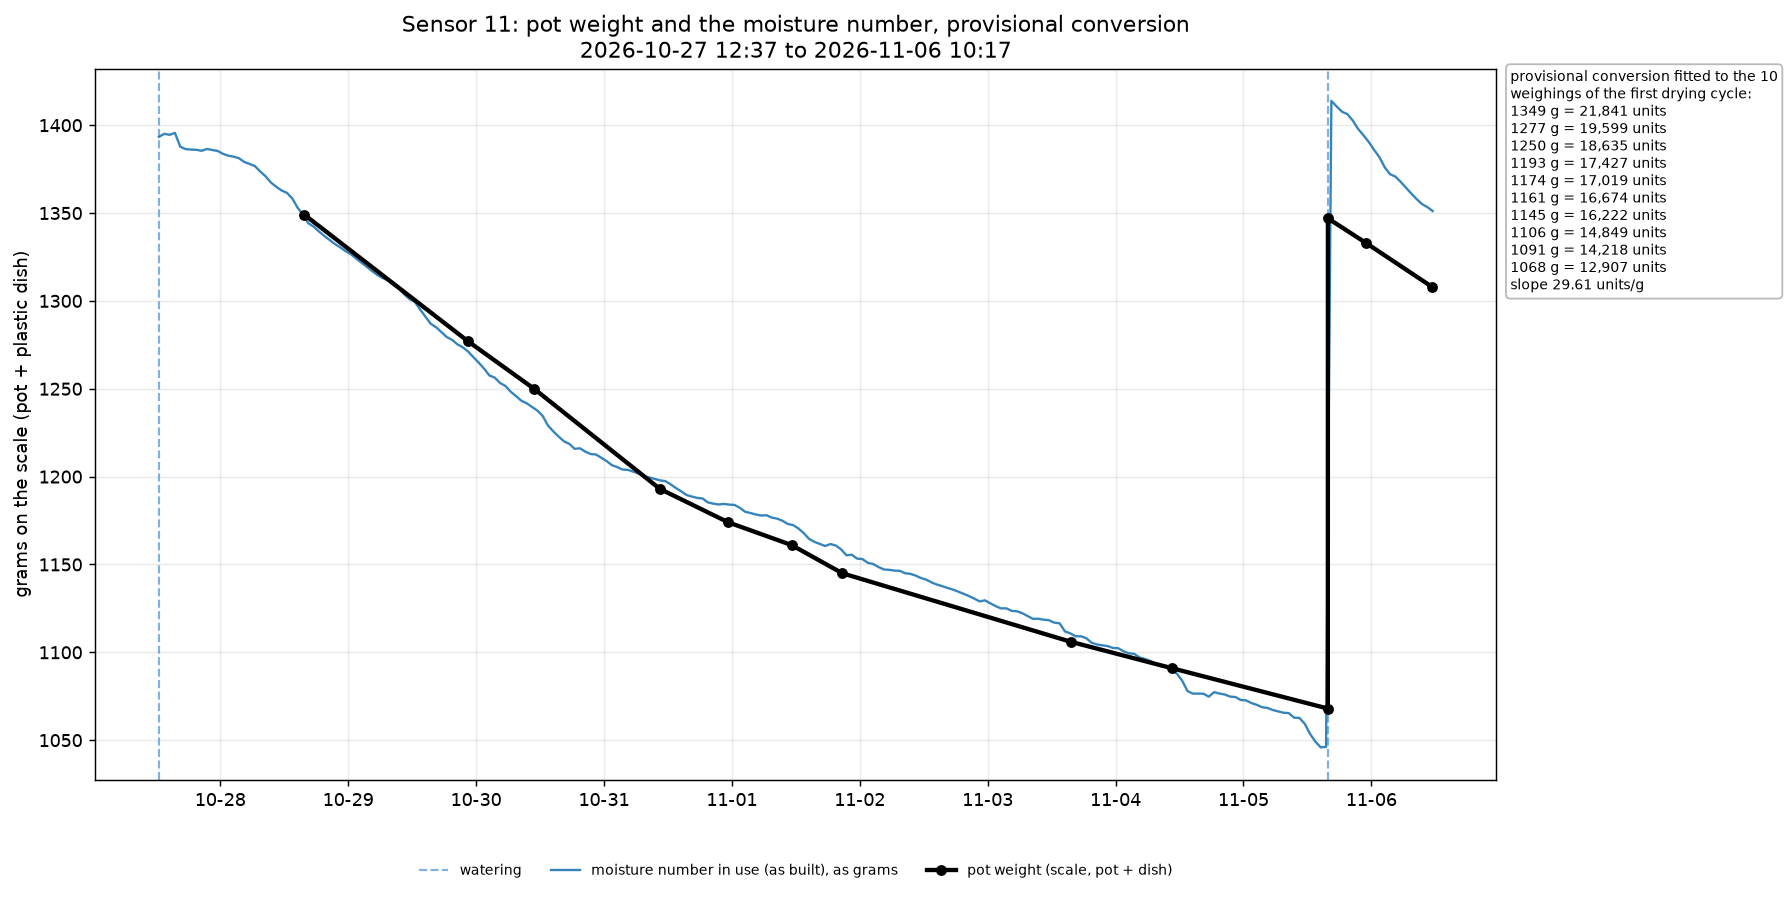
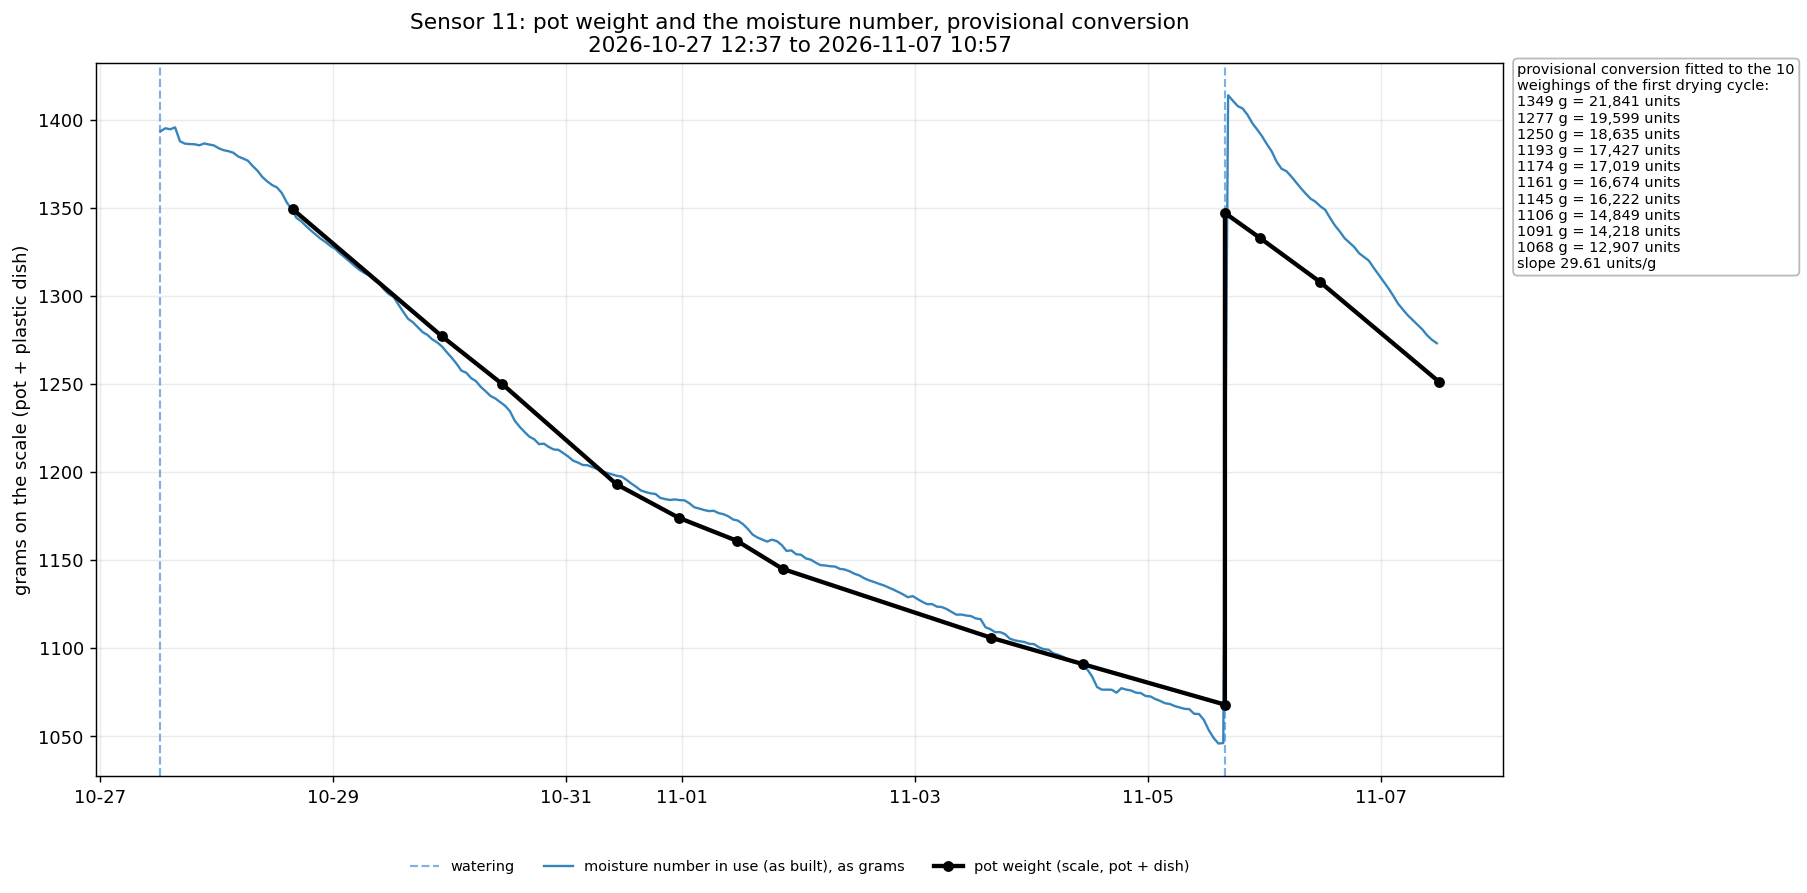
Begonia (sensor 11): 1251 on 11-07 (57 g under the 11-06 morning 1308); cross-watering rerun
1251 1251 1251 at ~11:03 PST, 44 h after the 11-05 watering and 96 g under
the 1347 right after it. This is the first weighing past 27 h, so the owed
cross-watering rerun is done and appended to the 11-06 model-transfer record:
fitted on cycle 1, the resistances and capacitances closed to -5..+14 g (from
+47..+132 at 11-05 21:59), so their cycle-2 offset was settling; RC-line mask C
held at +24..+30 g with the drying slope closest to the scale (-87 vs -82 g),
an offset rather than a gain. The stored number reads +20 g (was +57, +41).

diff --git a/MSV4/docs/MSV4_SENSOR11_MODEL_TRANSFER_2026-11-06.md b/MSV4/docs/MSV4_SENSOR11_MODEL_TRANSFER_2026-11-06.md
@@ -72,3 +72,41 @@ Predicted minus scale, grams. Lower |mean| is better. `change` is the predicted 
 What decides it: weighings from 11-06 evening onward, so cycle 2 overlaps cycle 1's time since
 watering. Then the next watering, weighed right before it, gives a third cycle and a second
 transfer test.
+
+## Update 2026-11-07: the first weighing past 27 h (MEASURED)
+
+1251 g at 11-07 ~11:03, 44 h after the watering: inside cycle 1's grams range and inside its
+time-since-watering range (its first two weighings were 27 h and 58 h after the 10-27 watering).
+Same script, sweeps refitted (2,264), 14 weighings.
+
+Fitted on cycle 1, predicted minus scale, grams. `change` is the predicted move from 11-05 21:59
+to 11-07 11:03, when the scale moved -82 g.
+
+| candidate | 21:59 | 11-06 10:23 | 11-07 11:03 | change |
+|---|---|---|---|---|
+| lumped mask C | +23 | +15 | +12 | -93 |
+| two-branch mask C | +33 | +20 | +15 | -99 |
+| RC-line mask C | +30 | +26 | +24 | -87 |
+| two-branch R | +47 | +32 | +10 | -119 |
+| RC-line R | +64 | +35 | +9 | -136 |
+| lumped R (firmware's) | +60 | +36 | +13 | -129 |
+| number in use | +57 | +41 | +20 | -119 |
+| CPE mask C | +80 | +40 | +8 | -155 |
+| Cm / soil-coupled | +99 / +102 | +49 / +49 | +4 / +3 | -177 / -181 |
+| direct C / derived soil C | +129 / +132 | +53 / +53 | -4 / -5 | -215 / -219 |
+
+- The resistances, the number in use and the capacitances kept closing after 27 h: the resistances
+  and capacitances are now a quarter or less of their 21:59 gap, the number in use about a third,
+  the lumped and two-branch mask C about half. That is the settling test this record set, and it
+  passed.
+- The capacitances have reached zero and are still falling faster than the scale (-177 to -219 g
+  predicted against -82 g). Whether they stop at zero or go on to read drier than the scale is not
+  known until the next weighing.
+- RC-line mask C did not close: +30, +26, +24 g. Its predicted change (-87 g) is the closest of
+  any candidate to the scale's -82 g. So it tracks the drying at cycle 1's slope with a fixed
+  offset of about +25 g, the same offset-not-gain shape sensor 10 showed in its second cycle.
+- With one line through all 13 settled weighings of both cycles, RC-line mask C has the smallest
+  leave-one-out miss (14.9 g), then two-branch R 16.0, two-branch mask C 18.6, lumped mask C 19.0,
+  lumped R 19.6 and the number in use 19.8. Capacitances 30-44 g, CPE n 106.
+- The stored number reads +20 g on the cycle-1 line; the mass plot's separate pairing shows the
+  same (~1273 against 1251 g).
